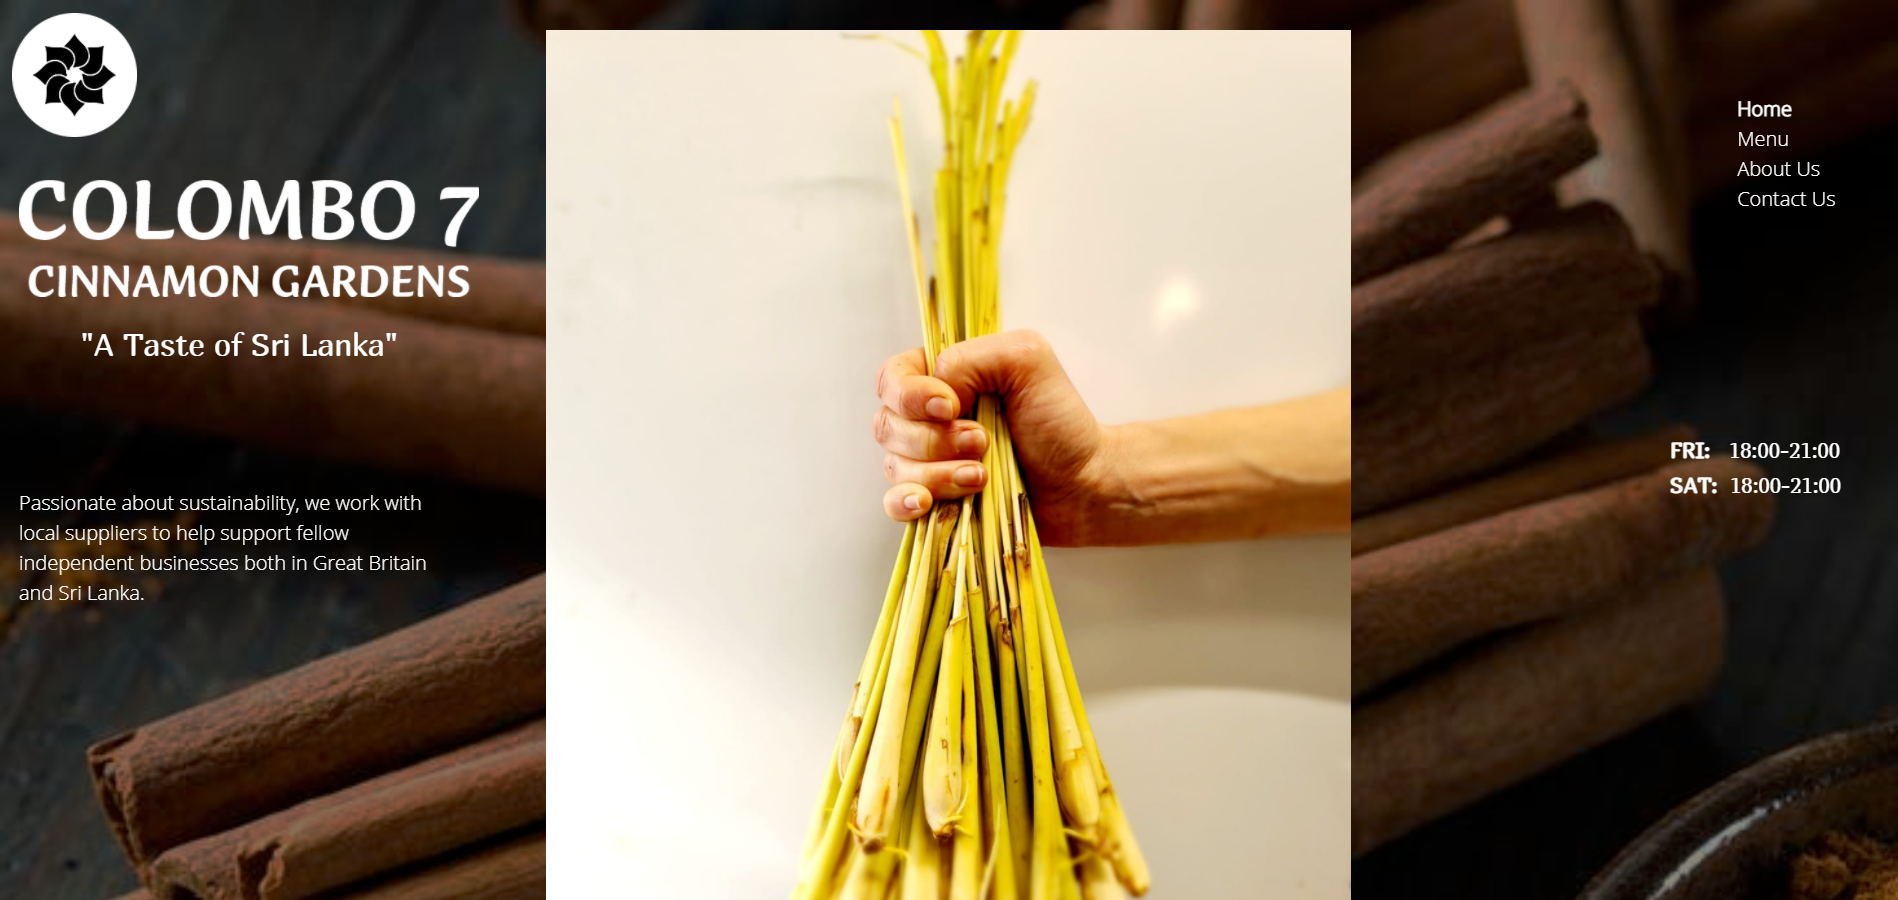
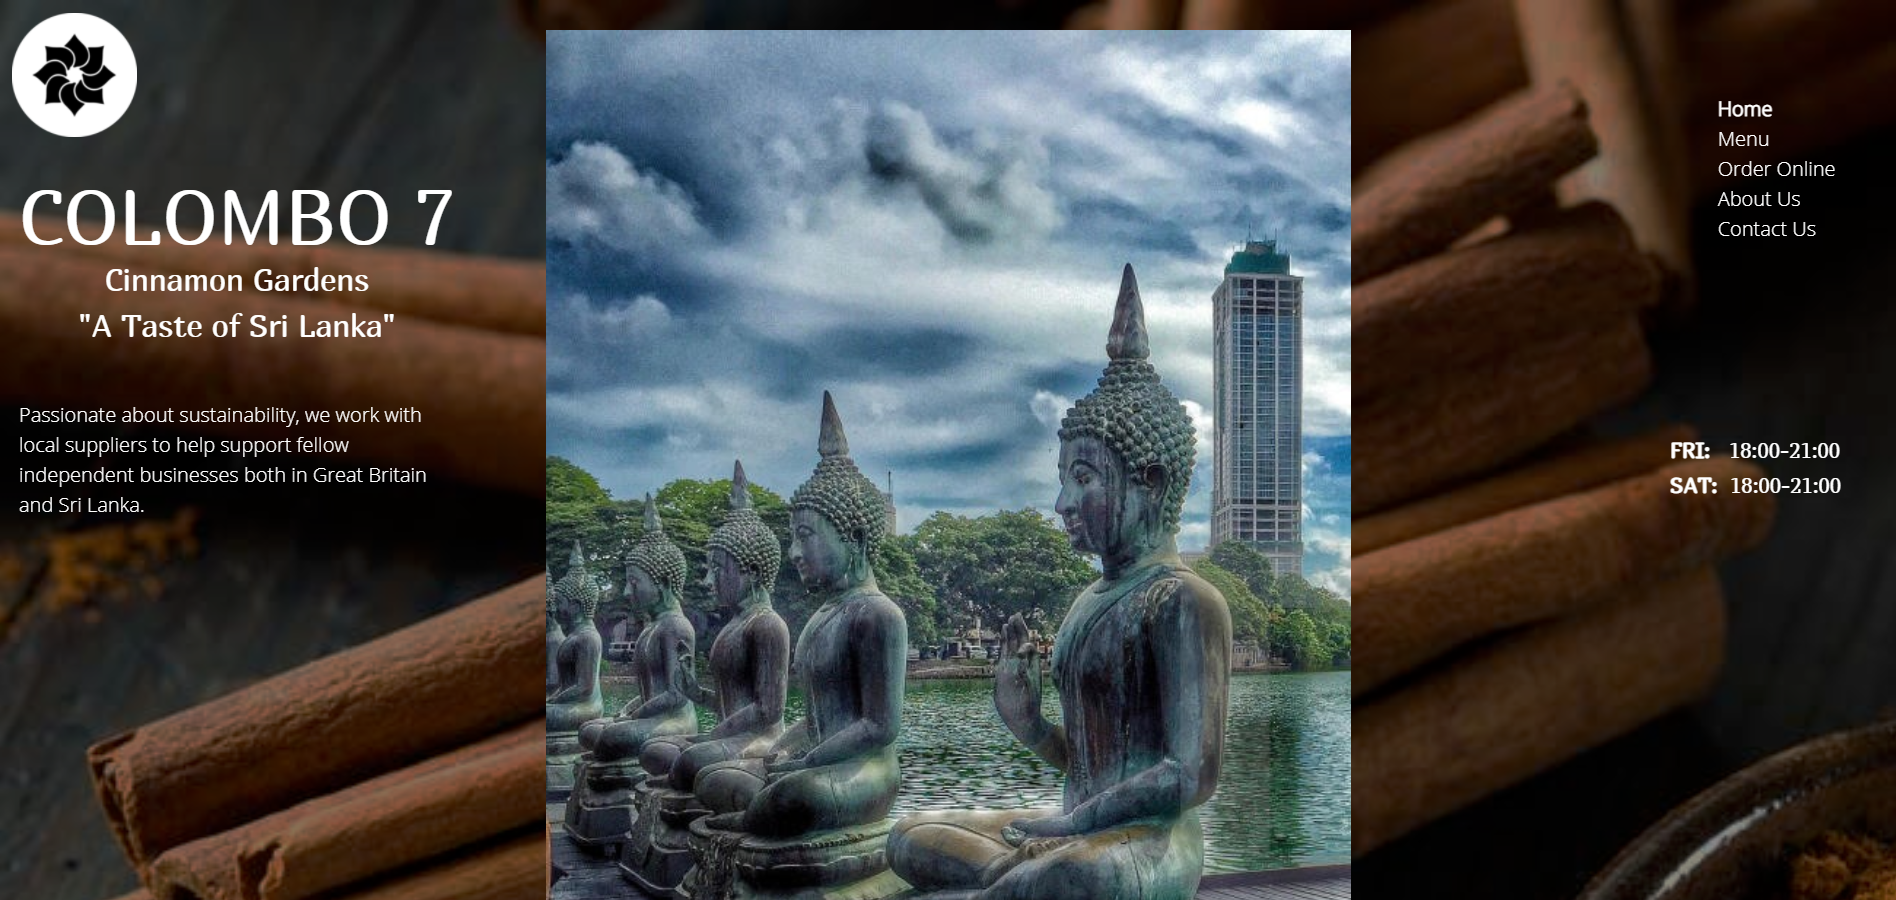
Updated Colombo 7's images and links since site went live

diff --git a/index.html b/index.html
@@ -134,7 +134,7 @@
                 </div>
               </div>
               <a
-                href="https://colombo7-cinnamongardens.netlify.app/"
+                href="https://www.colombo7cg.com"
                 target="_blank"
                 class="btn btn-info d-block"
                 >Go to Website</a
@@ -269,10 +269,7 @@
       <div class="container-lg d-none d-md-block">
         <div class="row mt-3">
           <div class="col-md-12">
-            <a
-              href="https://colombo7-cinnamongardens.netlify.app/"
-              target="_blank"
-            >
+            <a href="https://www.colombo7cg.com" target="_blank">
               <div class="card bg-dark text-white">
                 <img
                   src="/media/projects/cinnamon-gardens.png"
@@ -281,7 +278,7 @@
                 />
                 <div class="card-img-overlay card-img-overlay-md">
                   <h5 class="card-title font-weight-bold">
-                    Colombo 7 Cinnamon Gardens
+                    COLOMBO 7 Cinnamon Gardens
                   </h5>
                   <p class="card-text">
                     A beautiful Sri Lankan takeaway operating out of a coffee
